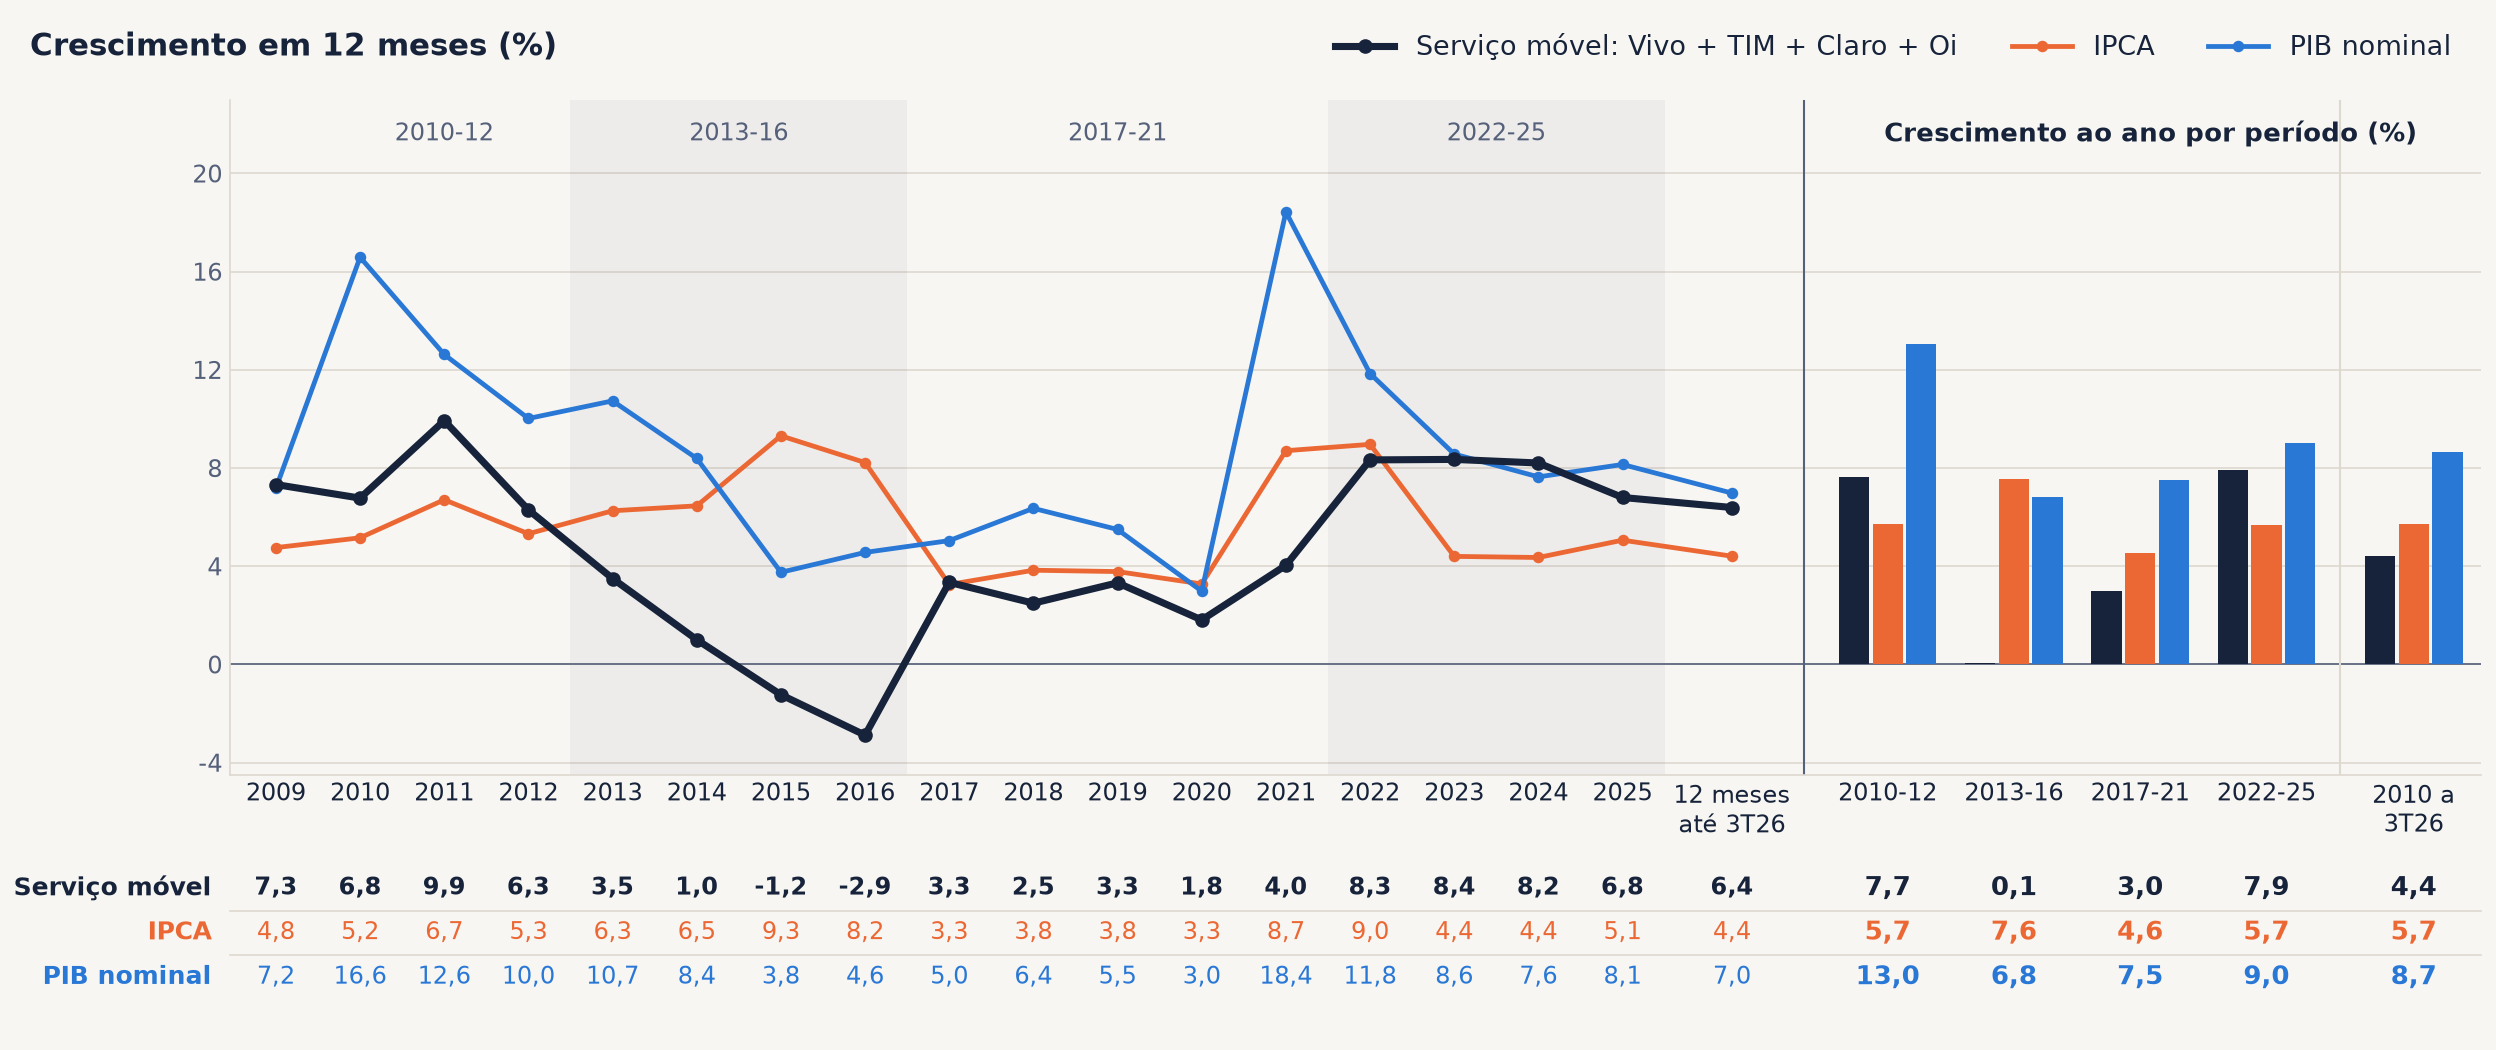
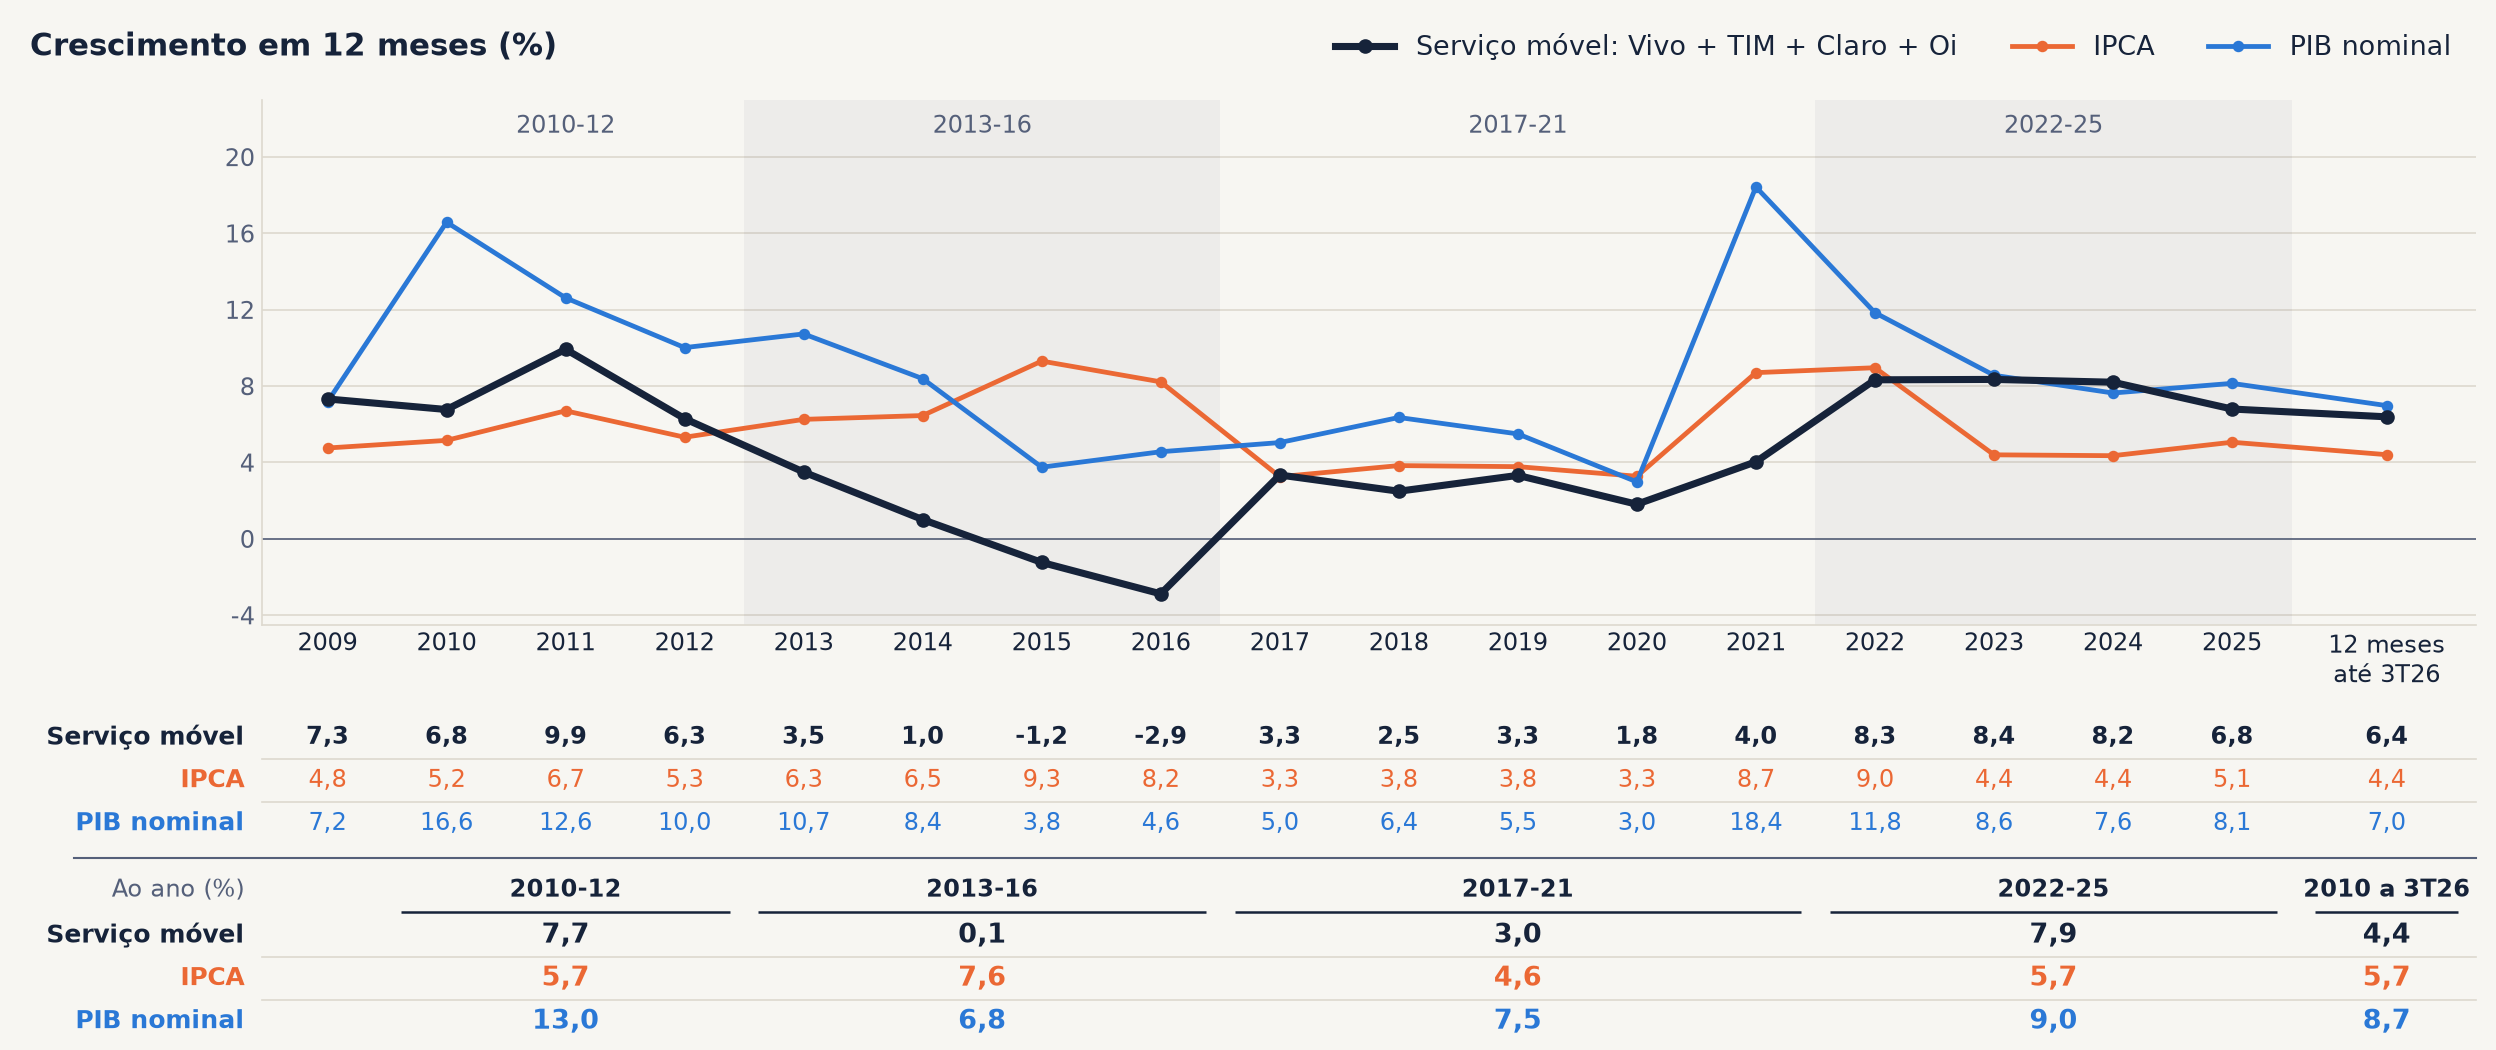
v2.6 · 24/11/2026 18:59 · slide 2 com linha inteira e tabela de CAGR
Saem as barras por período; o gráfico de linhas ocupa a largura toda e
a tabela embaixo traz o crescimento ao ano de cada período.

diff --git a/index.html b/index.html
@@ -40,7 +40,7 @@ h1, h2, h3 { font-family:'Space Grotesk', Arial, sans-serif; }
 <div id="palco">
 <section id="capa" class="capa" data-transition="fade">
 <div>
-<p class="chip">v2.5 · 24/11/2026 18:52</p>
+<p class="chip">v2.6 · 24/11/2026 18:59</p>
 </div>
 <div>
 <h1>Telecom Brasil: Vivo e TIM</h1>
@@ -51,7 +51,7 @@ h1, h2, h3 { font-family:'Space Grotesk', Arial, sans-serif; }
 <section id="setor" data-transition="fade">
 <p class="olho">ABERTURA · O SETOR CONTRA A INFLAÇÃO E O PIB NOMINAL</p>
 <h2 class="titulo">Serviço móvel cresceu 4,4% ao ano desde 2009, contra IPCA de 5,7% e PIB nominal de 8,7%; superou a inflação só em 2010-12 e 2022-25 e o PIB em nenhum período</h2>
-<img class="graf" src="img/v3_setor_macro.png" alt="Crescimento em 12 meses da receita de serviço móvel de Vivo, TIM, Claro e Oi somadas, do IPCA e do PIB nominal, ano a ano de 2009 a 2025 e nos 12 meses até o 3T26; ao lado, o crescimento ao ano das três séries em 2010-12, 2013-16, 2017-21, 2022-25 e de 2010 ao 3T26, com a tabela dos números">
+<img class="graf" src="img/v3_setor_macro.png" alt="Crescimento em 12 meses da receita de serviço móvel de Vivo, TIM, Claro e Oi somadas, do IPCA e do PIB nominal, ano a ano de 2009 a 2025 e nos 12 meses até o 3T26, com a tabela dos números de cada ano e, embaixo, a tabela do crescimento ao ano das três séries em 2010-12, 2013-16, 2017-21, 2022-25 e de 2010 ao 3T26">
 <p class="fonte">Fonte: RI das companhias, América Móvil (Claro) e releases da Oi na CVM; IBGE (IPCA, média do índice em 12 meses); Banco Central (PIB nominal em 12 meses, série 4382). Serviço móvel de Vivo, TIM, Claro e Oi somado em 12 meses, com a Oi dos dois lados em 2022.</p>
 <aside>Mesma base dos slides 1 a 3 do deck Móvel Brasil. Receita de serviço móvel das quatro operadoras em 12 meses: 46,3 bi em 2009, 57,8 bi em 2012, 57,9 bi em 2016, 67,2 bi em 2021, 91,1 bi em 2025 e 95,4 bi nos 12 meses até o 3T26. Ao ano, por período (cada período vai do fim do ano anterior ao fim do último ano): 2010-12, 7,7% contra IPCA de 5,7% e PIB nominal de 13,0%; 2013-16, 0,1% contra 7,6% e 6,8%; 2017-21, 3,0% contra 4,6% e 7,5%; 2022-25, 7,9% contra 5,7% e 9,0%; 12 meses até o 3T26, 6,4% contra 4,4% e 7,0%. Ano a ano, acima do IPCA de 2009 a 2012 e de 2023 em diante; acima do PIB nominal só em 2009 e 2024. De 2016 para 2017 o crescimento vai de -2,9% para 3,3%: TIM de -5,1% para 5,2% e Claro de -8,6% para 3,1% na média dos trimestres, com a Vivo em 3,0% e 4,3%; as linhas caem 9,1% em 2016 e 4,9% em 2017, e a receita por linha sobe 6,9% e 8,6%. O crescimento de 2022 em diante inclui o corte do ICMS de julho de 2022, que somou de 6% a 7% à receita líquida. A partir do 2T22 a receita da Oi está dentro das três compradoras.</aside>
 </section>

diff --git a/README.md b/README.md
@@ -1,3 +1,3 @@
 # Telecom Brasil: Vivo e TIM
 
-Deck de telecom (v2.5 · 24/11/2026 18:52): o setor contra a inflação e o PIB, receita, margem, EBITDA, capex e arrendamento, lucro, payout, Fistel e valuation de Vivo e TIM.
+Deck de telecom (v2.6 · 24/11/2026 18:59): o setor contra a inflação e o PIB, receita, margem, EBITDA, capex e arrendamento, lucro, payout, Fistel e valuation de Vivo e TIM.
